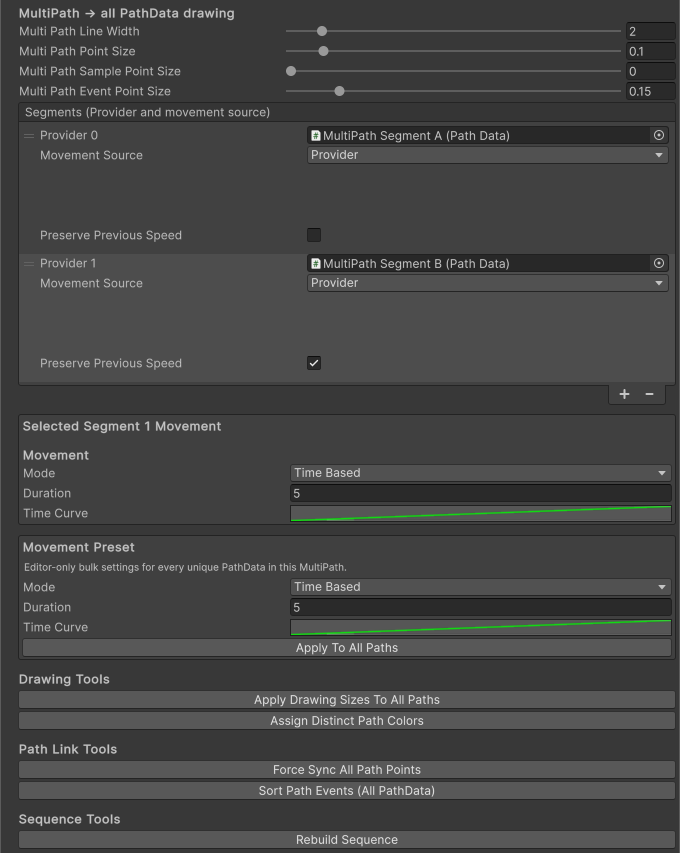
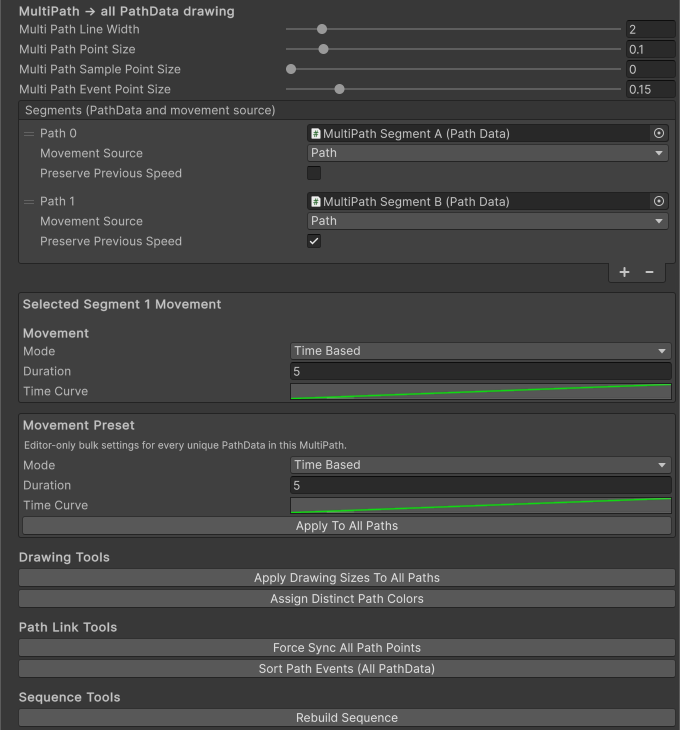
TransformPath 문서와 Inspector 스크린샷을 지금 코드에 맞춤

diff --git a/ToyProject/Assets/_TransformPath/Docs/TechnicalNotes.md b/ToyProject/Assets/_TransformPath/Docs/TechnicalNotes.md
@@ -23,7 +23,7 @@
 3. **순수 계산과 Unity 연결을 나눕니다.** `PathPolyline`, `PathRoute`, `PathPlaybackCursor`, `PathPlayback`, `PathEventEffects`, Queue 계산은 MonoBehaviour와 정적 상태(알림 순서 큐 제외)에 기대지 않아 EditMode 테스트로 검증합니다. 컴포넌트는 직렬화, 생명주기, Transform 적용만 맡습니다.
 4. **검증은 경계에서 한 번만 합니다.** 공개 명령의 입력과 Provider 빌드만 검증합니다.
 5. **공통 값과 헬퍼는 한 곳에 둡니다.** 상수는 `PathConstants`, 수치 검증과 곡선 복사는 `PathValueUtility`, 정렬은 `PathSortUtility`, 1회 오류 보고는 `PathConfigurationErrorReporter`입니다.
-6. **인터페이스는 교체할 이유가 있을 때만 둡니다.** 공개 인터페이스는 `IPathEventReceiver` 하나입니다. `IPathProvider`는 내부 계약이며(테스트의 가짜 Provider가 씁니다), 공개 시그니처는 `PathProviderBehaviour`를 받습니다. Route 갱신과 Queue의 구간 구성 비교는 Provider 종류를 확인하지 않고 이 계약과 Route의 구간만 봅니다. 런타임에서 종류를 확인하는 곳은 `PathRoute.Aggregate`의 "Aggregate는 `PathData`의 이벤트만 실행한다"는 규칙 한 곳입니다.
+6. **인터페이스는 교체할 이유가 있을 때만 둡니다.** 공개 인터페이스는 `IPathEventReceiver` 하나입니다. `IPathProvider`는 내부 계약이며(테스트의 가짜 Provider가 씁니다), 공개 시그니처는 `PathProviderBehaviour`를 받습니다. Route 갱신, Aggregate 구성, Queue의 구간 구성 비교는 Provider 종류를 확인하지 않고 이 계약과 Route의 구간만 봅니다. Aggregate가 실행할 이벤트는 Provider가 `WholeRouteEvents`로 알려 주며, `MultiPathData`에는 없습니다.
 7. **공개 API는 닫혀 있습니다.** 공개 타입은 컴포넌트(`PathFollower`, `PathQueueMember`, `QueuedPathManager`, `PathData`, `MultiPathData`, `PathDataLineRenderer`, `PathWaypointSyncRegistry`), 설정과 요청(`PathPlaybackRequest`, `PathMovementSettings`, `PathEventSettingSO`, `PathEventEntry`, `PathSegmentAuthoring`, `PathWaypointSyncGroup`, `PathQueueStatus`), 수신기와 enum뿐입니다. 기반 클래스 `PathProviderBehaviour`와 `PathRuntimeBehaviour`는 `private protected` 생성자로 외부 상속을 막습니다. 이벤트의 런타임 복사본(`PathEventDefinition` 등)은 내부 타입이며, 바깥에서는 `PathData.GetAuthoringEvent`로 작성 데이터를 읽습니다.
 
 ## 수명 규칙
@@ -38,7 +38,7 @@
 
 ## 경로와 재생
 
-- `PathData`는 Transform 제어점을 곡선별로 샘플링한 `PathPolyline`을 발행합니다. 위치는 누적 거리로 보간하므로 진행률이 일정하면 샘플 사이에서 속도가 일정합니다. 스플라인은 매개변수로 샘플링하므로 샘플 수가 적으면 구간마다 속도가 달라집니다(테스트 기준 500샘플에서 최대 편차 0.05% 이하).
+- `PathData`는 Transform 제어점을 곡선별로 샘플링한 `PathPolyline`을 발행합니다. 위치는 누적 거리로 보간하므로 진행률이 일정하면 샘플 사이에서 속도가 일정합니다. 스플라인은 매개변수로 샘플링하므로 샘플 수가 적으면 구간마다 속도가 달라집니다(테스트는 500샘플에서 편차가 1% 미만인지 확인합니다).
 - `MultiPathData`는 `PathData`만 구간으로 받습니다. 자식의 `PathChanged`를 구독해 자식이 바뀌면 다시 빌드하므로 자식을 폴링하지 않습니다. 빌드할 때 아직 빌드되지 않은 자식을 먼저 빌드해, Awake 순서에 기대지 않습니다.
 - Provider는 빌드에 실패하거나 파괴되면 준비 상태를 잃고 `PathChanged`로 알립니다. 이 경로를 쓰는 Follower는 다음 이동 Tick에서 멈추고, Queue는 멤버를 내보내며, MultiPathData는 오류를 다시 기록하지 않고 사용 불가가 됩니다. 실패 전과 같은 내용으로 복구되어도 알리므로 MultiPathData가 함께 돌아옵니다.
 - `PathData.MovementSettings`는 빌드 뒤에는 게시된 값을 돌려줍니다. 값을 대입하면 즉시 다시 빌드합니다.
@@ -95,7 +95,7 @@
 - 작성 위치는 `0..0.995`이고 같은 위치는 작성 순서를 따릅니다. 위치 0의 이벤트도 재생 시작 후 첫 이동에서 실행됩니다.
 - `PathEventDefinition`은 `PathEventSettingSO`의 불변 복사본이며, 만들 때 한 번 검증합니다(목표값 `0.001..9999`, 보간 시간과 지연 0 이상, 보간에는 곡선 필요, 지연 체인 순환 금지). 잘못된 이벤트가 있으면 경로 빌드가 실패합니다.
 - 한 이벤트의 처리 순서는 이름 알림 예약 → Lifecycle(Pause 또는 Resume) → 현재 이동 방식의 값 변경 → 지연 이벤트 예약입니다. Pause 이벤트는 값을 바꾸지 않습니다. 알림은 경계 뒤에 전달되므로 수신기는 효과가 적용된 상태를 봅니다. 수신기가 `EventReached`보다 먼저 호출됩니다.
-- 지연 이벤트는 게임 시간을 쓰고, 다음 경로 이벤트가 실행되면 남은 지연이 취소됩니다. 지연 0은 바로 실행하며, 그 이벤트가 상태나 값을 바꾸면 같은 목록의 나머지 항목은 실행도 예약도 하지 않습니다(main과 같은 동작). 상태나 값을 바꾼 지연 이벤트가 있으면 같은 프레임의 나머지 지연 이벤트는 다음 프레임으로 미룹니다.
+- 지연 이벤트는 게임 시간을 쓰고, 다음 경로 이벤트가 실행되면 남은 지연이 취소됩니다. 지연 0은 바로 실행하며, 그 이벤트가 상태나 값을 바꾸면 같은 목록의 나머지 항목은 실행도 예약도 하지 않습니다. 상태나 값을 바꾼 지연 이벤트가 있으면 같은 프레임의 나머지 지연 이벤트는 다음 프레임으로 미룹니다.
 - 값 보간은 시작한 구간의 이동 방식까지만 이어집니다. 이동 방식이 다른 구간에 들어가거나 Pause하면 취소합니다.
 - `TriggerEvent(setting)`은 전달한 에셋의 현재 값을 바로 실행하며, 경로에 등록된 복사본에는 다음 빌드 전까지 반영되지 않습니다.
 - 재생이 끝나면 지연 이벤트와 값 보간을 함께 정리합니다. 재생이 없을 때(완료 뒤) `TriggerEvent`로 실행한 값 변경은 보간 없이 목표값을 바로 적용하고, 지연 이벤트는 예약하지 않습니다. 움직이지 않는 재생에서는 보간의 최종값만 의미가 있고, 지연을 진행할 재생도 없기 때문입니다.
@@ -103,9 +103,9 @@
 
 ## Editor
 
-- `PathEditorChangeMonitor`가 Hierarchy, 속성, Undo/Redo, 리로드 변경을 모으고, `PathTrackedTargets`가 Linker별 대상 목록을 그 변경에서만 다시 찾습니다. `MultiPathAutoLinker`(연결점)와 `PathWaypointSyncLinker`(그룹 동기화)는 동기화 규칙만 가집니다. Transform 이동만으로는 대상 캐시를 지우지 않아 이전 위치와 비교할 수 있습니다.
+- `PathEditorChangeMonitor`가 Hierarchy, 속성, Undo/Redo, 리로드 변경을 모으고, `PathTrackedTargets`가 Linker별 대상 목록을 그 변경에서만 다시 찾습니다. `MultiPathAutoLinker`(연결점)와 `PathWaypointSyncLinker`(그룹 동기화)는 동기화 규칙만 가집니다. 연결점 순회는 `PathLinkEditorUtility.SyncJoints` 하나이며, 자동 연결(움직인 쪽을 따라감)과 **Force Sync All Path Points**(뒤 구간 시작을 앞 구간 끝에 맞춤)가 함께 씁니다. Transform 이동만으로는 대상 캐시를 지우지 않아 이전 위치와 비교할 수 있습니다.
 - `PathDataScenePreviewCache`는 런타임의 `PathPolyline`을 만들어 살아 있는 경로의 미리보기를 재사용하고, 삭제된 경로의 항목을 지웁니다. PlayMode 전환과 리로드에서 비웁니다.
-- Inspector 클래스는 배치만 맡습니다. `PathDataEditor`는 `PathDataGizmoDrawer`(Scene View 미리보기)와 `PathPointTools`(지면 스냅, 점 생성, 자손에서 갱신)를, `MultiPathDataEditor`는 `PathSegmentListDrawer`(구간 목록), `PathSegmentMovementPanel`(선택 구간 이동, 일괄 이동 설정), `PathDrawingTools`(미리보기 크기, 구별 색)를 씁니다.
+- Inspector 클래스는 배치만 맡습니다. `PathDataEditor`는 `PathDataGizmoDrawer`(Scene View 미리보기)와 `PathPointTools`(지면 스냅, 점 생성, 자손에서 갱신)를, `MultiPathDataEditor`는 `PathSegmentListDrawer`(구간 목록: PathData, 이동 출처, 속도 보존), `PathSegmentMovementPanel`(선택 구간 이동, 일괄 이동 설정), `PathDrawingTools`(미리보기 크기, 구별 색)를 씁니다.
 - 연결점과 웨이포인트 그룹은 같은 규칙(`PathPointSync`)을 씁니다. 스냅샷보다 가장 많이 움직인 점을 기준으로 나머지를 옮기고, 동률이면 앞 멤버를 따릅니다. 연결점은 [다음 경로 시작점, 이전 경로 끝점] 두 멤버 그룹이라 동률이면 시작점을 따릅니다. 이미 같은 위치면 옮기지 않습니다.
 - 미리보기 설정 필드는 Player에서도 직렬화합니다. Editor와 Player의 데이터 레이아웃이 같아야 하기 때문이며, Player에서는 읽지 않습니다.
 - 이동 설정 UI와 Rebuild·이벤트 정렬 도구는 `PathInspectorGUI`에 있습니다. `MultiPathData`의 미리보기 크기 적용과 구별 색 지정은 버튼으로만 실행합니다.
@@ -122,7 +122,6 @@
 - Player 측정: `Tools/run-transformpath-probe.sh`
 - IL2CPP 빌드: `Tools/run-il2cpp-build.sh`
 - 측정을 비교할 커밋은 해시로 넘깁니다(`UNITY_TREE=$(git rev-parse HEAD)`). `HEAD`라고 쓰면 스냅샷 worktree 자신의 HEAD로 해석되어 다른 커밋을 빌드합니다.
-- 2차 리팩터링 측정(Mac Mono Player, 5회, main 7db7dda 대비 중앙값): Queue 1000명 Steady 2.52→2.11ms(Speed), 3.69→3.32ms(Time), queueDrain.300 0.54→0.39ms, 시작 할당 감소(queue.time.1000 792→224KB). 일시정지한 Queue는 0.66→0.83ms로 느려졌습니다. 멈춘 멤버도 장애물로 계산에 남기 때문입니다. Loop 이음매 겹침 프레임과 나머지 Free 시나리오는 main 범위 안입니다. 5회 중 1회는 모든 시나리오가 함께 느려 범위 상단이 넓습니다.
 
 ## UML 갱신
 

diff --git a/ToyProject/Assets/_TransformPath/README.md b/ToyProject/Assets/_TransformPath/README.md
@@ -10,7 +10,7 @@ Transform 제어점으로 경로를 만들고 단일 경로, 연결 경로, Queu
 | 이동 방식 | `TimeBased`: Duration과 TimeCurve · `SpeedBased`: 거리와 속도 |
 | 예제 | `Samples/Scenes/TransformPathSample.unity`, `Samples/Prefabs/TransformPathShowcase.prefab` |
 
-구현 세부는 [TechnicalNotes.md](Docs/TechnicalNotes.md)에 있습니다.
+구현 세부는 [TechnicalNotes.md](Docs/TechnicalNotes.md)에 있습니다. 코드의 메시지(예외, 로그, Inspector 문구와 Tooltip, 주석)는 모두 영어입니다.
 
 ## 다른 프로젝트로 옮기기
 
